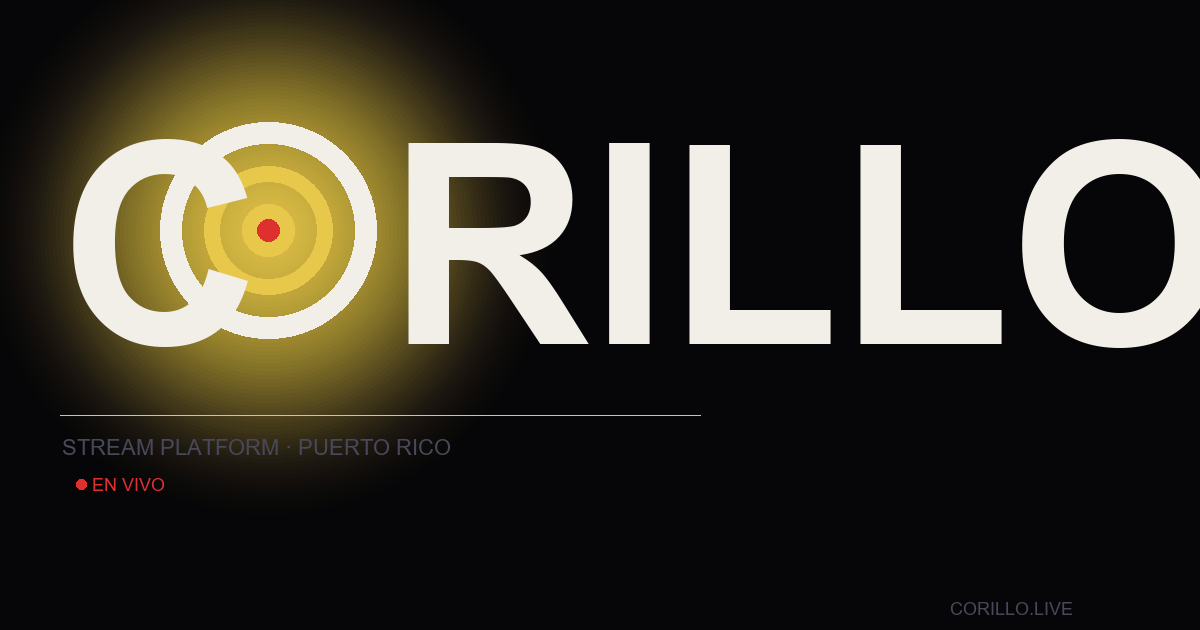
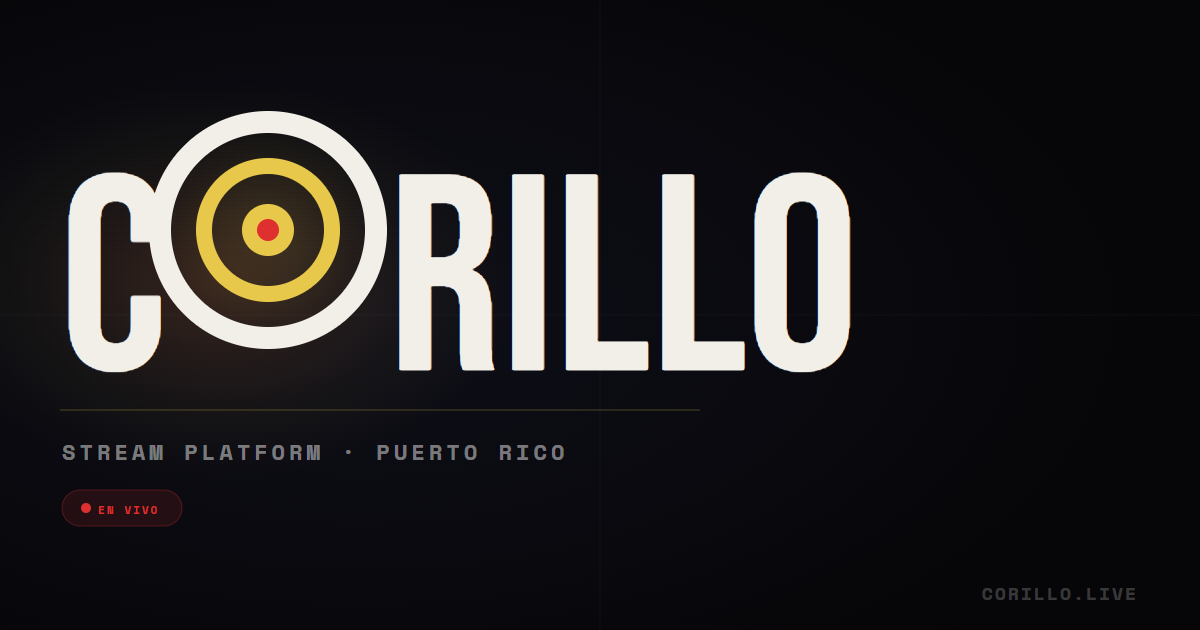
Add proper 1200x630 OG image, update og:image tags
- Generate og-image.png at 1200x630 from og-image.html template
- Update homepage og:image from apple-touch-icon (180x180) to og-image.png

diff --git a/index.html b/index.html
@@ -11,9 +11,9 @@
   <meta property="og:url" content="https://corillo.live/">
   <meta property="og:title" content="CORILLO — Stream Platform">
   <meta property="og:description" content="Plataforma de streaming independiente desde Puerto Rico. Sin algoritmos, sin baneos arbitrarios. Solo tú, tu setup y tu audiencia.">
-  <meta property="og:image" content="https://corillo.live/assets/apple-touch-icon.png">
-  <meta property="og:image:width" content="180">
-  <meta property="og:image:height" content="180">
+  <meta property="og:image" content="https://corillo.live/assets/og-image.png">
+  <meta property="og:image:width" content="1200">
+  <meta property="og:image:height" content="630">
   <meta property="og:locale" content="es_PR">
   <meta property="og:site_name" content="CORILLO">
 
